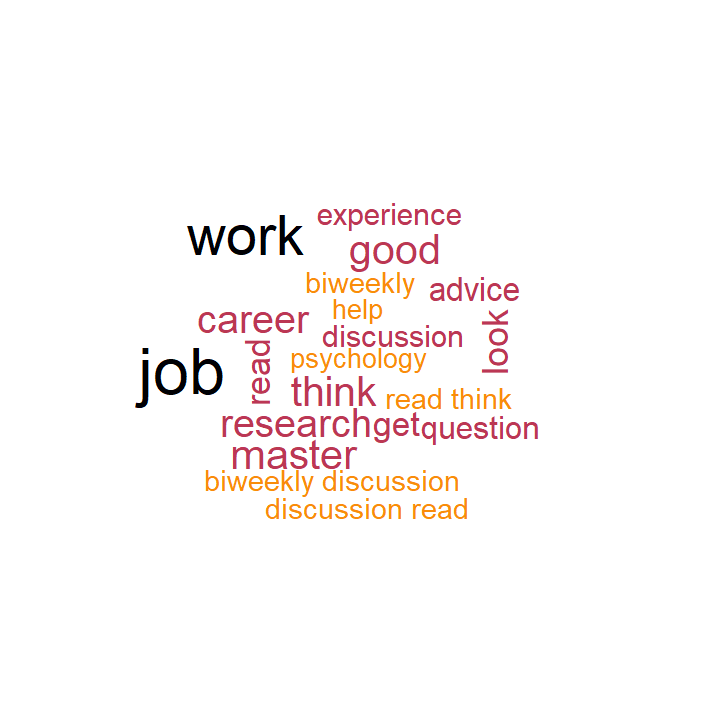
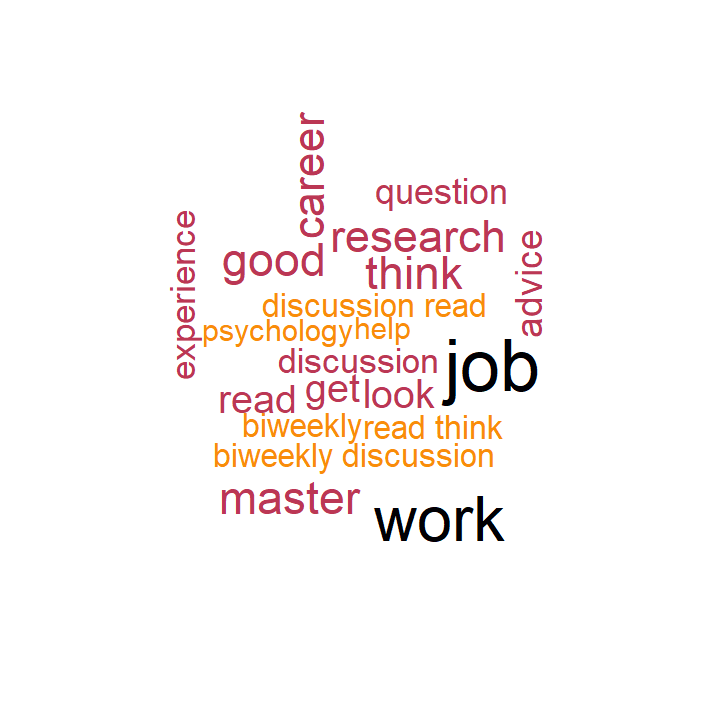
fixed merging error. final final commit.

Changed region(s): [[0.1833, 0.1528, 0.7639, 0.7639]]

diff --git a/out/week12.html b/out/week12.html
@@ -1755,13 +1755,13 @@ compare_them(og_corp = io_corpus_original,
              proc_corp = io_corpus,
              random_index = sample(1:length(io_corpus_original),1))</code></pre>
 <pre><code>## [[1]]
-## [1] 893
+## [1] 932
 ## 
 ## $`Original Corpus Sample`
-## [1] &quot;Bi-Weekly /r/IOpsychology Discussion - What have you been reading, and what do you think of it?&quot;
+## [1] &quot;What are you working on? - March 2022&quot;
 ## 
 ## $`Cleaned Corpus Sample`
-## [1] &quot;biweekly discussion read think&quot;</code></pre>
+## [1] &quot;work march&quot;</code></pre>
 <p>Before creating a unigram/bigram DTM, I first filtered out 3 empty
 entries using <code>tm_filter()</code>. The DTM is created from this
 filtered corpus. Next, I use <code>removeSparseTerms()</code> with a
@@ -1965,7 +1965,7 @@ folder in the current directory as a PNG.</p>
 
 io_dtm_m &lt;- as.matrix(io_dtm)
 
-png(filename=&quot;../fig/io_wordcloud.png&quot;, width=720, height=720,units = &quot;px&quot;, pointsize = 16)
+png(filename=&quot;../fig/io_wordcloud.png&quot;, height = 720, width = 720, units = &quot;px&quot;, pointsize = 18)
 
 wordcloud::wordcloud(
   words = colnames(io_dtm_m),
@@ -1978,7 +1978,7 @@ dev.off()</code></pre>
 <pre><code>## png 
 ##   2</code></pre>
 <pre class="r"><code>knitr::include_graphics(&quot;../fig/io_wordcloud.png&quot;)</code></pre>
[2 lines of base64/hex data omitted]
 </div>
 
 
